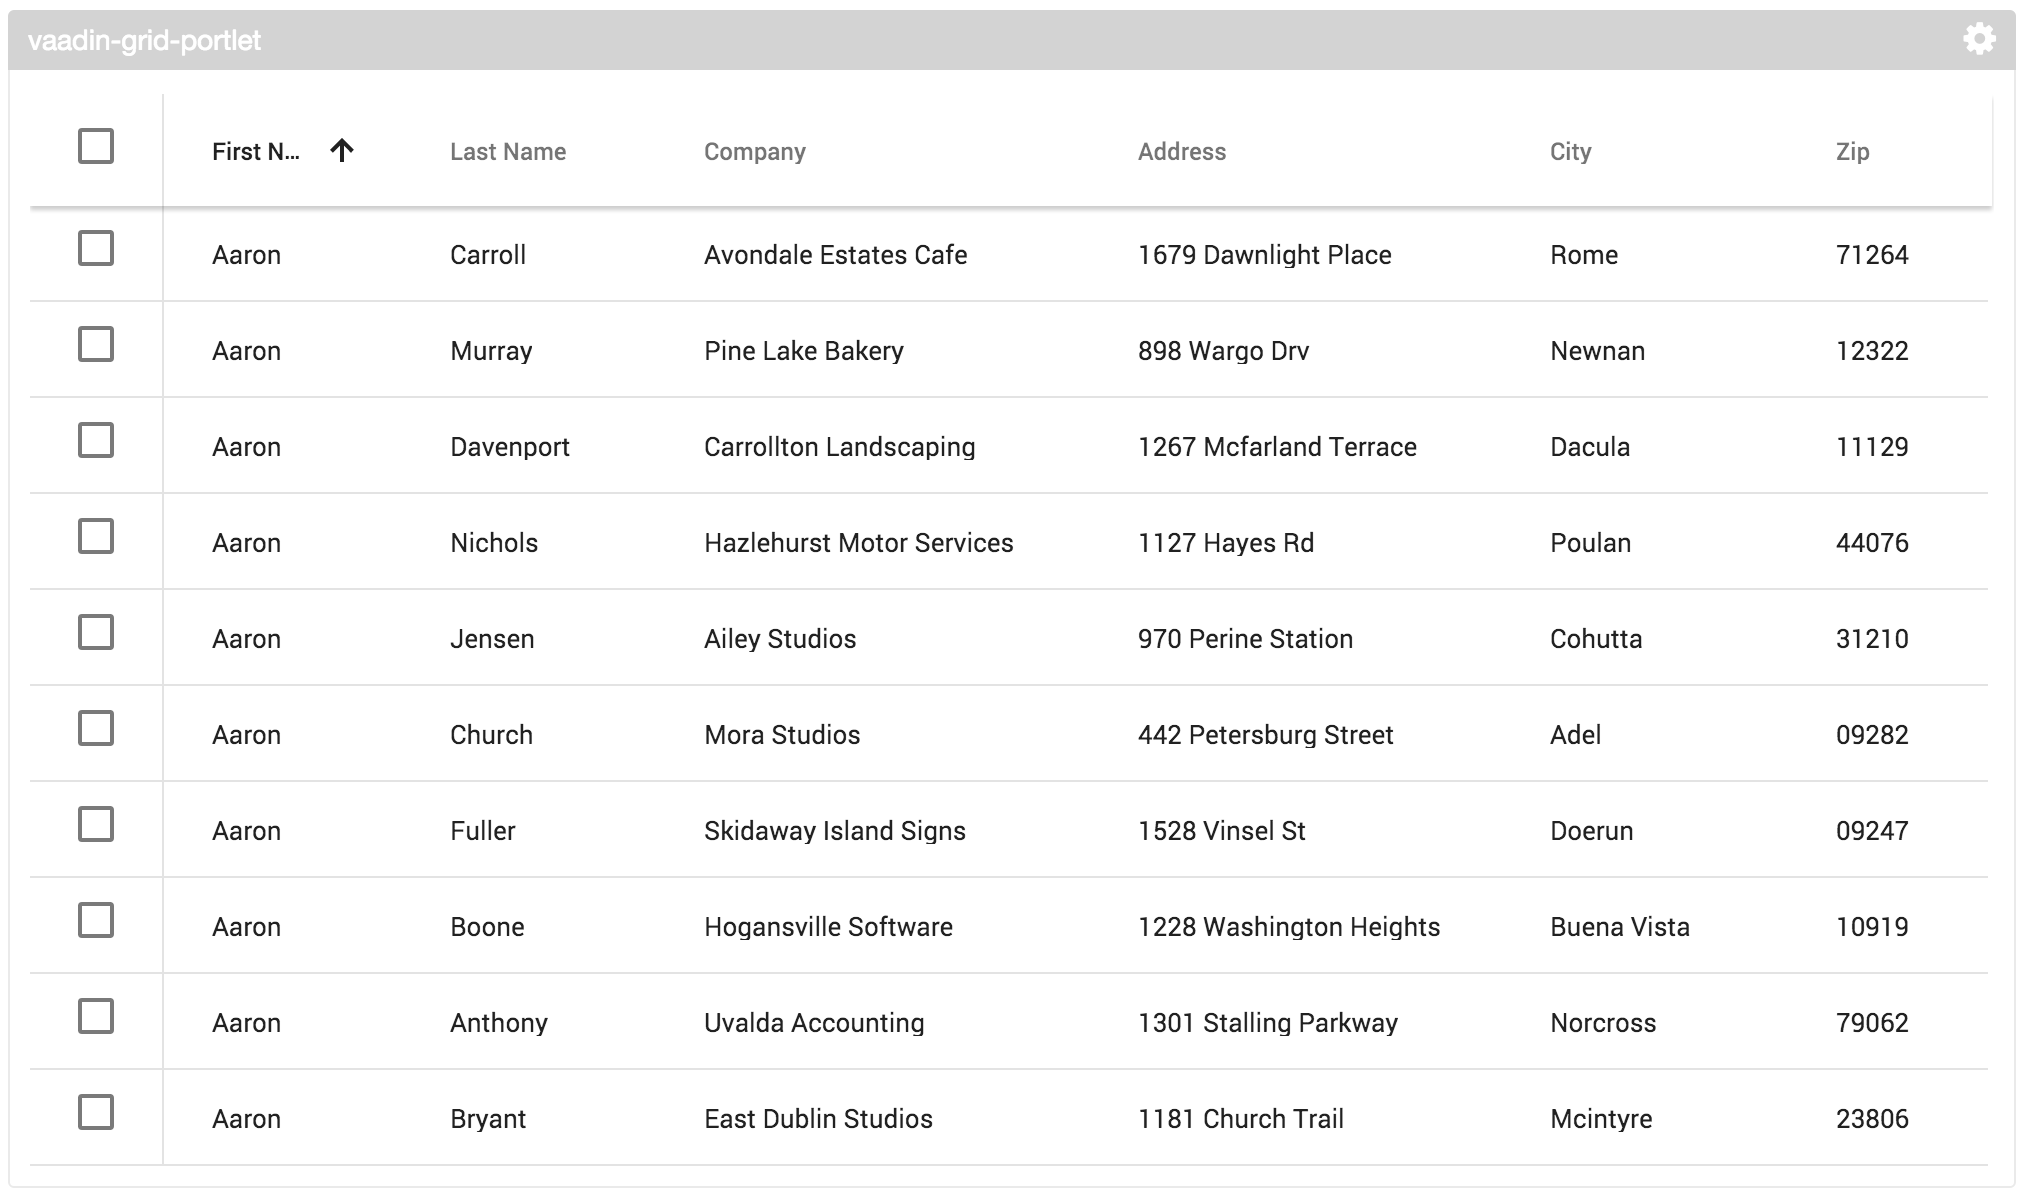
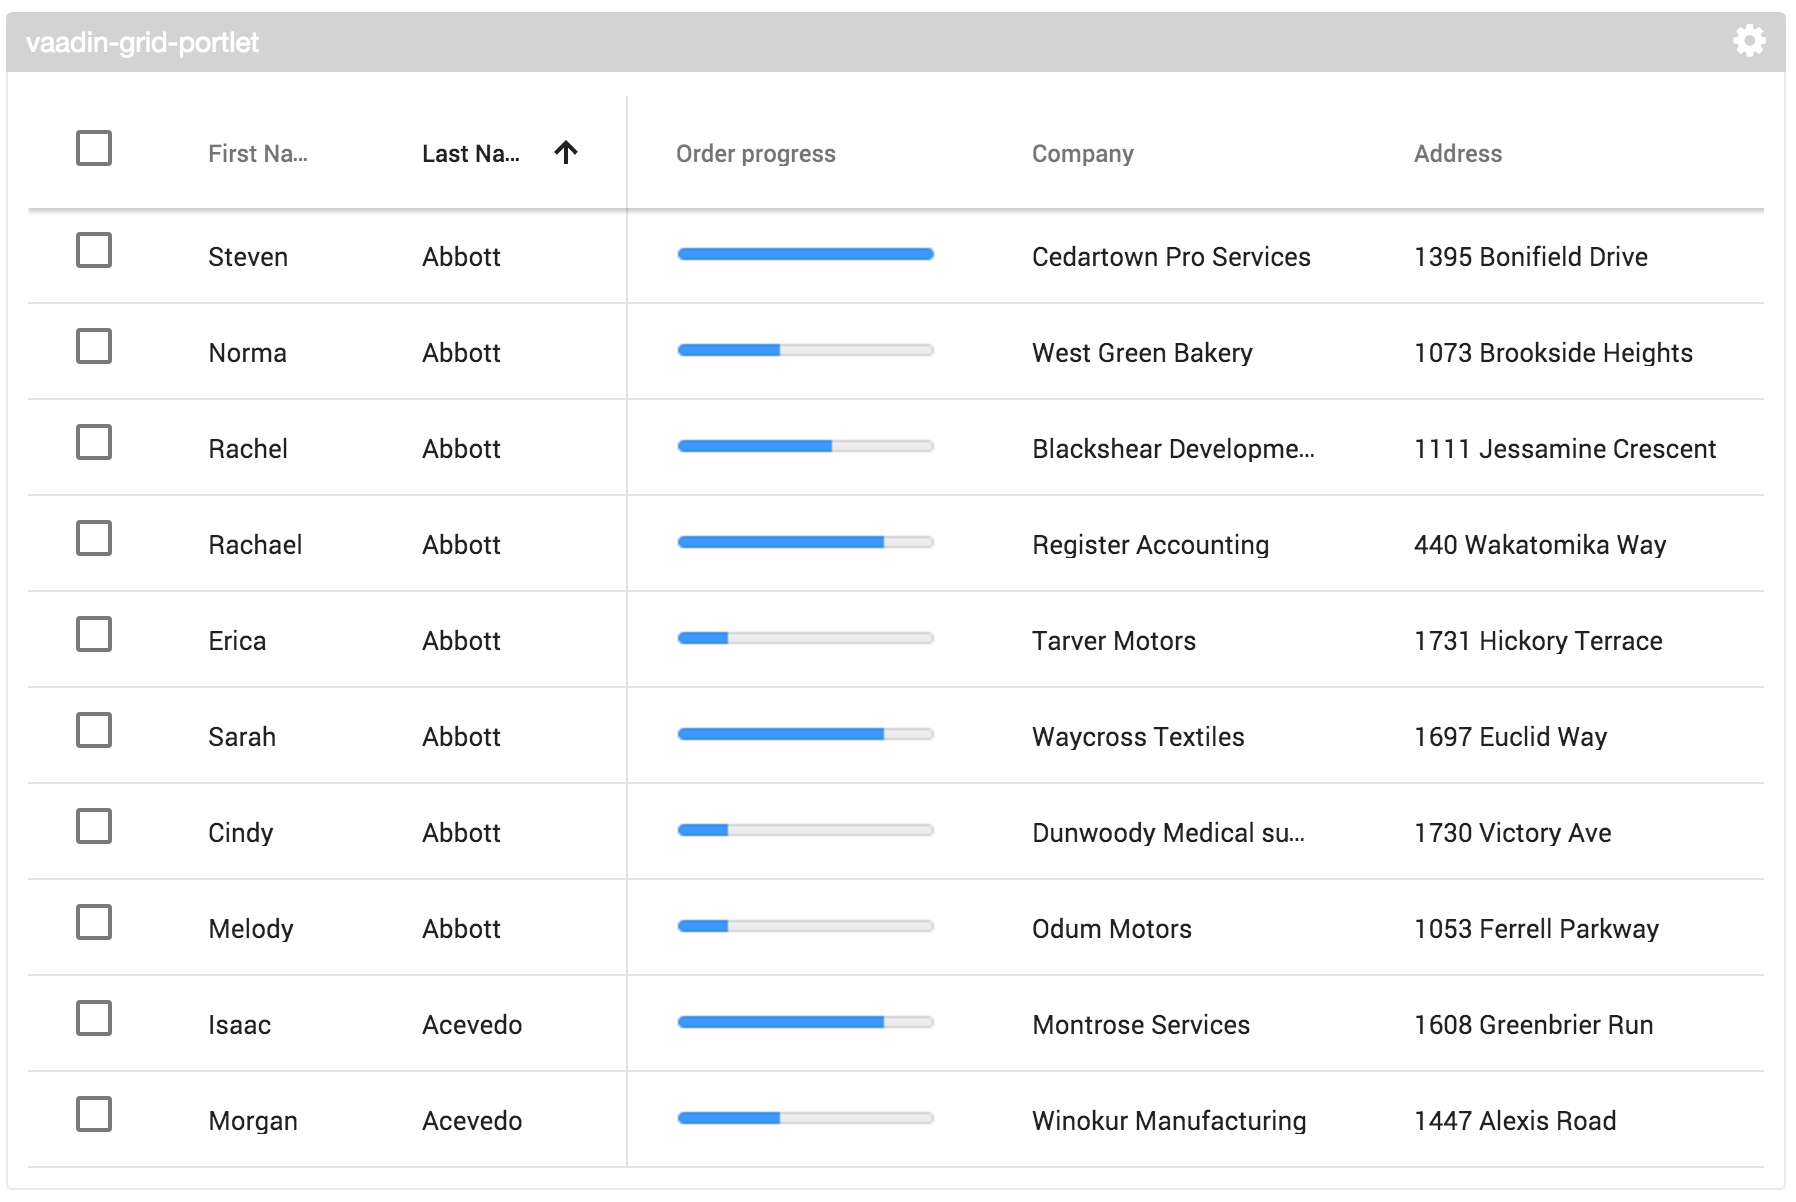
Code cleanup

diff --git a/src/main/webapp/js/Promise.min.js b/src/main/webapp/js/Promise.min.js
@@ -1,0 +1,2 @@
+/*! promise-polyfill 2.1.0 */
+!function(a){function b(a,b){return function(){a.apply(b,arguments)}}function c(a){if("object"!=typeof this)throw new TypeError("Promises must be constructed via new");if("function"!=typeof a)throw new TypeError("not a function");this._state=null,this._value=null,this._deferreds=[],i(a,b(e,this),b(f,this))}function d(a){var b=this;return null===this._state?void this._deferreds.push(a):void j(function(){var c=b._state?a.onFulfilled:a.onRejected;if(null===c)return void(b._state?a.resolve:a.reject)(b._value);var d;try{d=c(b._value)}catch(e){return void a.reject(e)}a.resolve(d)})}function e(a){try{if(a===this)throw new TypeError("A promise cannot be resolved with itself.");if(a&&("object"==typeof a||"function"==typeof a)){var c=a.then;if("function"==typeof c)return void i(b(c,a),b(e,this),b(f,this))}this._state=!0,this._value=a,g.call(this)}catch(d){f.call(this,d)}}function f(a){this._state=!1,this._value=a,g.call(this)}function g(){for(var a=0,b=this._deferreds.length;b>a;a++)d.call(this,this._deferreds[a]);this._deferreds=null}function h(a,b,c,d){this.onFulfilled="function"==typeof a?a:null,this.onRejected="function"==typeof b?b:null,this.resolve=c,this.reject=d}function i(a,b,c){var d=!1;try{a(function(a){d||(d=!0,b(a))},function(a){d||(d=!0,c(a))})}catch(e){if(d)return;d=!0,c(e)}}var j="function"==typeof setImmediate&&setImmediate||function(a){setTimeout(a,1)},k=Array.isArray||function(a){return"[object Array]"===Object.prototype.toString.call(a)};c.prototype["catch"]=function(a){return this.then(null,a)},c.prototype.then=function(a,b){var e=this;return new c(function(c,f){d.call(e,new h(a,b,c,f))})},c.all=function(){var a=Array.prototype.slice.call(1===arguments.length&&k(arguments[0])?arguments[0]:arguments);return new c(function(b,c){function d(f,g){try{if(g&&("object"==typeof g||"function"==typeof g)){var h=g.then;if("function"==typeof h)return void h.call(g,function(a){d(f,a)},c)}a[f]=g,0===--e&&b(a)}catch(i){c(i)}}if(0===a.length)return b([]);for(var e=a.length,f=0;f<a.length;f++)d(f,a[f])})},c.resolve=function(a){return a&&"object"==typeof a&&a.constructor===c?a:new c(function(b){b(a)})},c.reject=function(a){return new c(function(b,c){c(a)})},c.race=function(a){return new c(function(b,c){for(var d=0,e=a.length;e>d;d++)a[d].then(b,c)})},c._setImmediateFn=function(a){j=a},"undefined"!=typeof module&&module.exports?module.exports=c:a.Promise||(a.Promise=c)}(this);

diff --git a/src/main/webapp/js/main.js b/src/main/webapp/js/main.js
@@ -1,4 +1,5 @@
 document.addEventListener('WebComponentsReady', function () {
+  var statuses = ['RECEIVED', 'PROCESSING', 'PACKAGING', 'SHIPPED', 'DELIVERED'];
 
   function PagedDataSource(options) {
     var baseUrl = options.baseUrl;
@@ -161,14 +162,24 @@ document.addEventListener('WebComponentsReady', function () {
   }
 
   var grid = document.querySelector('vaadin-grid');
+  grid.frozenColumns = 2;
   grid.datasource = new PagedDataSource({
     baseUrl: '/delegate/services/customers',
     pageLength: 50
   });
-
   var sortChanged = false;
   grid.addEventListener('sort-order-changed', function () {
     sortChanged = true;
     grid.scrollToStart();
   });
+
+
+  grid.columns[2].renderer = function (cell) {
+    cell.element.innerHTML = '';
+    var progressBar = document.createElement('progress');
+    progressBar.setAttribute('value', ((statuses.indexOf(cell.data) + 1) / statuses.length).toString());
+    cell.element.appendChild(progressBar);
+  };
+
+
 });

diff --git a/src/main/java/org/vaadin/marcus/PersistenceContext.java b/src/main/java/org/vaadin/marcus/PersistenceContext.java
@@ -17,69 +17,69 @@ import java.util.Properties;
 
 @Configuration
 @EnableTransactionManagement
-@EnableJpaRepositories(basePackageClasses=PersistenceContext.class)
+@EnableJpaRepositories(basePackageClasses = PersistenceContext.class)
 class PersistenceContext {
 
-	@Bean(destroyMethod = "close")
-	DataSource dataSource(Environment env) {
-		HikariConfig dataSourceConfig = new HikariConfig();
-		System.err.println(env.toString());
-		
-		dataSourceConfig.setDriverClassName(env.getRequiredProperty("db.driver"));
-		dataSourceConfig.setJdbcUrl(env.getRequiredProperty("db.url"));
-		dataSourceConfig.setUsername(env.getRequiredProperty("db.username"));
-		dataSourceConfig.setPassword(env.getRequiredProperty("db.password"));
+    @Bean(destroyMethod = "close")
+    DataSource dataSource(Environment env) {
+        HikariConfig dataSourceConfig = new HikariConfig();
+        System.err.println(env.toString());
 
-		return new HikariDataSource(dataSourceConfig);
-	}
-	
-	@Bean
-    LocalContainerEntityManagerFactoryBean entityManagerFactory(DataSource dataSource, 
+        dataSourceConfig.setDriverClassName(env.getRequiredProperty("db.driver"));
+        dataSourceConfig.setJdbcUrl(env.getRequiredProperty("db.url"));
+        dataSourceConfig.setUsername(env.getRequiredProperty("db.username"));
+        dataSourceConfig.setPassword(env.getRequiredProperty("db.password"));
+
+        return new HikariDataSource(dataSourceConfig);
+    }
+
+    @Bean
+    LocalContainerEntityManagerFactoryBean entityManagerFactory(DataSource dataSource,
                                                                 Environment env) {
         LocalContainerEntityManagerFactoryBean entityManagerFactoryBean = new LocalContainerEntityManagerFactoryBean();
         entityManagerFactoryBean.setDataSource(dataSource);
         entityManagerFactoryBean.setJpaVendorAdapter(new HibernateJpaVendorAdapter());
         entityManagerFactoryBean.setPackagesToScan(PersistenceContext.class.getPackage().getName());
- 
+
         Properties jpaProperties = new Properties();
-     
+
         //Configures the used database dialect. This allows Hibernate to create SQL
         //that is optimized for the used database.
         jpaProperties.put("hibernate.dialect", env.getRequiredProperty("hibernate.dialect"));
- 
+
         //Specifies the action that is invoked to the database when the Hibernate
         //SessionFactory is created or closed.
-        jpaProperties.put("hibernate.hbm2ddl.auto", 
+        jpaProperties.put("hibernate.hbm2ddl.auto",
                 env.getRequiredProperty("hibernate.hbm2ddl.auto")
         );
- 
+
         //Configures the naming strategy that is used when Hibernate creates
         //new database objects and schema elements
-        jpaProperties.put("hibernate.ejb.naming_strategy", 
+        jpaProperties.put("hibernate.ejb.naming_strategy",
                 env.getRequiredProperty("hibernate.ejb.naming_strategy")
         );
- 
+
         //If the value of this property is true, Hibernate writes all SQL
         //statements to the console.
-        jpaProperties.put("hibernate.show_sql", 
+        jpaProperties.put("hibernate.show_sql",
                 env.getRequiredProperty("hibernate.show_sql")
         );
- 
+
         //If the value of this property is true, Hibernate will format the SQL
         //that is written to the console.
-        jpaProperties.put("hibernate.format_sql", 
+        jpaProperties.put("hibernate.format_sql",
                 env.getRequiredProperty("hibernate.format_sql")
         );
- 
+
         entityManagerFactoryBean.setJpaProperties(jpaProperties);
- 
+
         return entityManagerFactoryBean;
     }
-	
-	@Bean
-	JpaTransactionManager transactionManager(EntityManagerFactory entityManagerFactory) {
-		JpaTransactionManager transactionManager = new JpaTransactionManager();
-		transactionManager.setEntityManagerFactory(entityManagerFactory);
-		return transactionManager;
-	}
+
+    @Bean
+    JpaTransactionManager transactionManager(EntityManagerFactory entityManagerFactory) {
+        JpaTransactionManager transactionManager = new JpaTransactionManager();
+        transactionManager.setEntityManagerFactory(entityManagerFactory);
+        return transactionManager;
+    }
 }

diff --git a/src/main/java/org/vaadin/marcus/CustomerRestController.java b/src/main/java/org/vaadin/marcus/CustomerRestController.java
@@ -11,7 +11,6 @@ import org.springframework.web.bind.annotation.RestController;
 import org.vaadin.marcus.entity.Customer;
 import org.vaadin.marcus.repository.CustomerRepository;
 
-import java.util.ArrayList;
 import java.util.HashMap;
 import java.util.Map;
 
@@ -30,24 +29,14 @@ public class CustomerRestController {
             @RequestParam(value = "sort", required = false, defaultValue = "firstName") String sortProperty,
             @RequestParam(value = "order", required = false, defaultValue = "asc") String order) {
 
-        System.out.println(String.format("Finding customers [page: %d, size: %d, sort: %s, order: %s", page, size, sortProperty, order));
-
         Sort.Direction sortDirection = order.equals("asc") ? Sort.Direction.ASC : Sort.Direction.DESC;
 
-        // Our response will contain both a size and the result set.
+        PageRequest pageRequest = new PageRequest(page, size, sortDirection, sortProperty);
+        Page<Customer> customers = customerRepository.findAll(pageRequest);
+
         HashMap<String, Object> response = new HashMap<>();
-
-        // Grid makes a call for 0 size first, need to handle that separately
-        if (page == 0 && size == 0) {
-            response.put("total", customerRepository.count());
-            response.put("results", new ArrayList());
-        } else {
-            PageRequest pageRequest = new PageRequest(page, size, sortDirection, sortProperty);
-            Page<Customer> customers = customerRepository.findAll(pageRequest);
-            response.put("total", customers.getTotalElements());
-            response.put("results", customers.getContent());
-        }
-
+        response.put("total", customers.getTotalElements());
+        response.put("results", customers.getContent());
         return response;
     }
 }

diff --git a/src/main/java/org/vaadin/marcus/TestDataInitializer.java b/src/main/java/org/vaadin/marcus/TestDataInitializer.java
@@ -9,6 +9,7 @@ import org.vaadin.marcus.entity.Customer;
 import org.vaadin.marcus.repository.CustomerRepository;
 
 import java.util.ArrayList;
+import java.util.Random;
 
 @Component
 public class TestDataInitializer implements ApplicationListener<ContextRefreshedEvent> {
@@ -23,7 +24,8 @@ public class TestDataInitializer implements ApplicationListener<ContextRefreshed
       int numCustomers = 10000;
 
       ArrayList<Customer> customers = new ArrayList<>(numCustomers);
-
+      Random random = new Random();
+        Customer.OrderProgress[] statuses = Customer.OrderProgress.values();
       for (int i = 0; i < numCustomers; i++) {
 
         Customer customer = new Customer();
@@ -33,6 +35,7 @@ public class TestDataInitializer implements ApplicationListener<ContextRefreshed
         customer.setCity(datafactory.getCity());
         customer.setZip(datafactory.getNumberText(5));
         customer.setCompany(datafactory.getBusinessName());
+        customer.setOrderProgress(statuses[random.nextInt(statuses.length)]);
 
         customers.add(customer);
       }

diff --git a/src/main/java/org/vaadin/marcus/entity/Customer.java b/src/main/java/org/vaadin/marcus/entity/Customer.java
@@ -1,13 +1,14 @@
 package org.vaadin.marcus.entity;
 
 
-import javax.persistence.Entity;
-import javax.persistence.GeneratedValue;
-import javax.persistence.GenerationType;
-import javax.persistence.Id;
+import javax.persistence.*;
 
 @Entity
 public class Customer {
+
+    public enum OrderProgress {
+        RECEIVED, PROCESSING, PACKAGING, SHIPPED, DELIVERED
+    }
 
     @Id
     @GeneratedValue(strategy = GenerationType.AUTO)
@@ -18,6 +19,9 @@ public class Customer {
     private String company;
     private String city;
     private String zip;
+    @Enumerated(EnumType.STRING)
+    private OrderProgress orderProgress;
+
 
     public Long getId() {
         return id;
@@ -73,5 +77,13 @@ public class Customer {
 
     public void setZip(String zip) {
         this.zip = zip;
+    }
+
+    public OrderProgress getOrderProgress() {
+        return orderProgress;
+    }
+
+    public void setOrderProgress(OrderProgress orderProgress) {
+        this.orderProgress = orderProgress;
     }
 }
